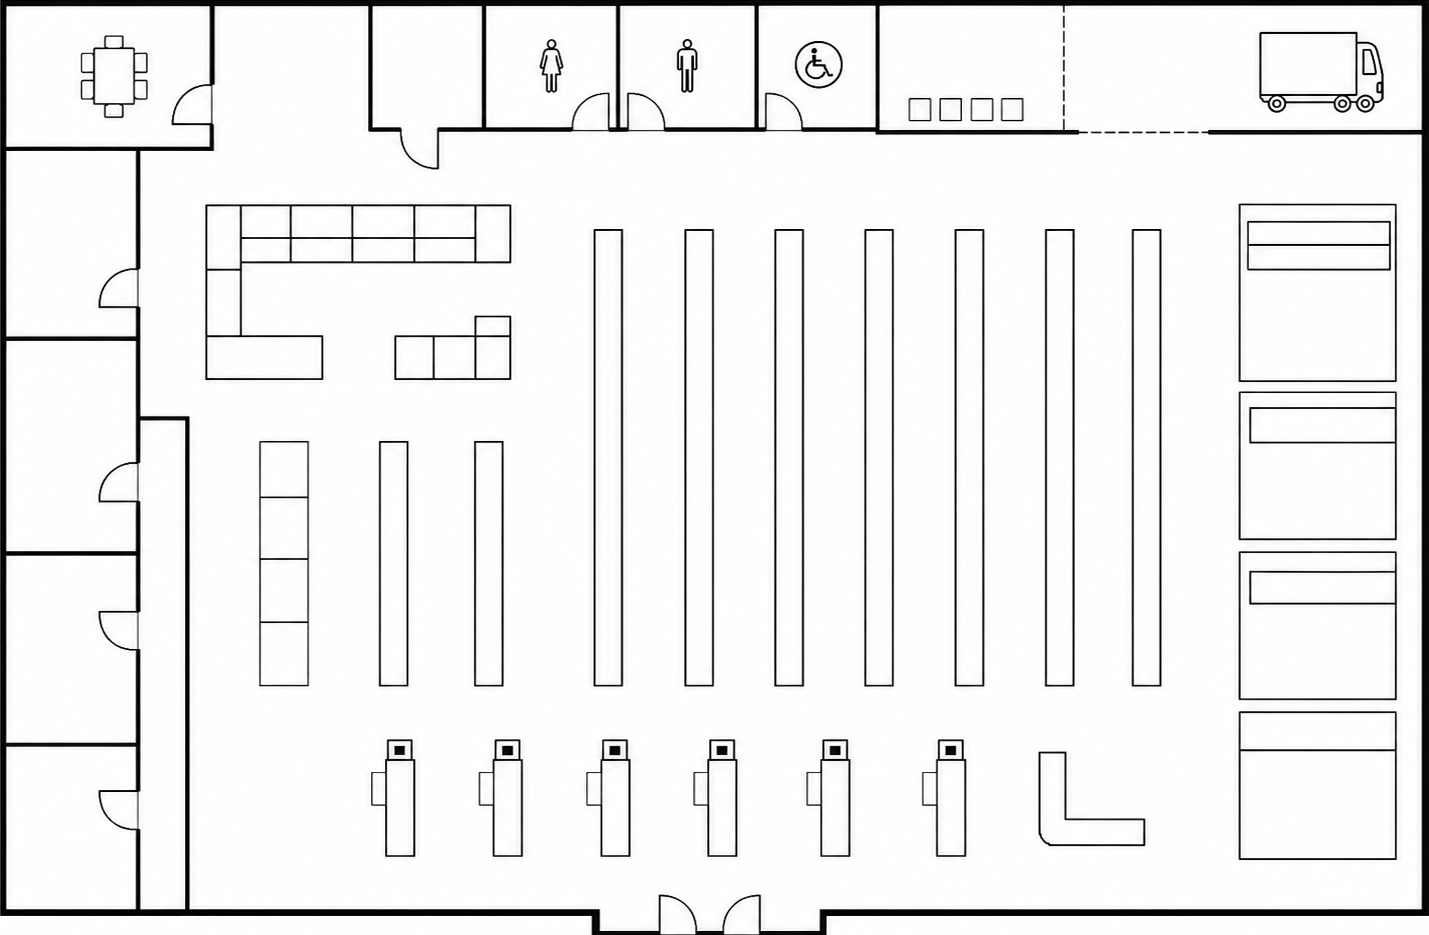
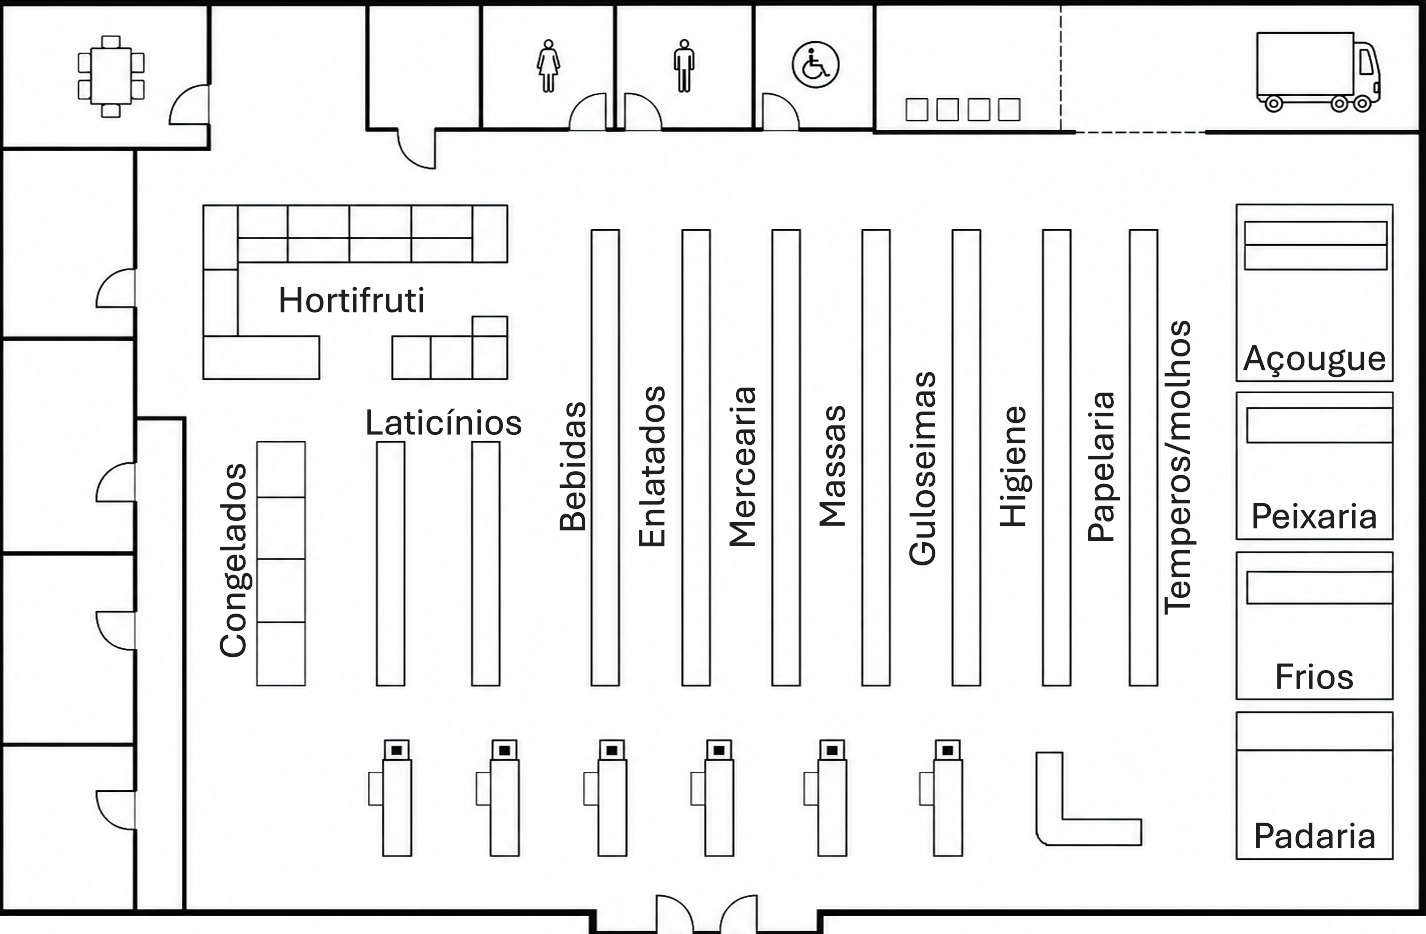
Alterando imagem de fundo do heatmap para melhor entendimento dos setores

diff --git a/site/Dashboard.html b/site/Dashboard.html
@@ -7,7 +7,7 @@
     <title>LOXEN | Dashboard</title>
     <script src="https://cdn.jsdelivr.net/npm/chart.js"></script>
     <link rel="stylesheet" href="css/dash.css">
-    
+
     <meta charset="UTF-8">
     <meta name="viewport" content="width=device-width, initial-scale=1.0">
     <script src="https://unpkg.com/heatmap.js"></script>
@@ -80,7 +80,7 @@
             <div class="grafico">
                 <h3>Mapa de Calor do Fluxo de Pessoas | Hoje</h3>
 
-                <canvas class="heatmap"></canvas>
+                <div class="heatmap"></div>
             </div>
         </div>
     </div>
@@ -248,24 +248,70 @@
 
     var dadosPorLocal = {
         local1: [
-            { x: 95, y: 175, value: 30, radius: 130 }
+            { x: 160, y: 137, value: 34, radius: 50 }
         ],
         local2: [
-            { x: 310, y: 225, value: 20, radius: 90 }
+            { x: 125, y: 137, value: 30, radius: 50 }
         ],
         local3: [
-            { x: 445, y: 190, value: 60, radius: 100 }
+            { x: 127, y: 92, value: 20, radius: 50 }
         ],
         local4: [
-            { x: 190, y: 364, value: 50, radius: 130 }
+            { x: 197, y: 72, value: 25, radius: 50 }
         ],
         local5: [
-            { x: 400, y: 365, value: 80, radius: 130 }
+            { x: 197, y: 152, value: 25, radius: 50 }
+        ],
+        local6: [
+            { x: 235, y: 72, value: 20, radius: 50 }
+        ],
+        local7: [
+            { x: 235, y: 152, value: 20, radius: 50 }
+        ],
+        local8: [
+            { x: 267, y: 72, value: 17, radius: 50 }
+        ],
+        local9: [
+            { x: 267, y: 152, value: 17, radius: 50 }
+        ],
+        local10: [
+            { x: 300, y: 72, value: 29, radius: 50 }
+        ],
+        local11: [
+            { x: 300, y: 152, value: 29, radius: 50 }
+        ],
+        local12: [
+            { x: 333, y: 72, value: 30, radius: 50 }
+        ],
+        local13: [
+            { x: 333, y: 152, value: 30, radius: 50 }
+        ],
+        local14: [
+            { x: 366, y: 72, value: 19, radius: 50 }
+        ],
+        local15: [
+            { x: 366, y: 152, value: 19, radius: 50 }
+        ],
+        local16: [
+            { x: 398, y: 72, value: 22, radius: 50 }
+        ],
+        local17: [
+            { x: 398, y: 152, value: 22, radius: 50 }
+        ],
+        local18: [
+            { x: 433, y: 72, value: 23, radius: 50 }
+        ],
+        local19: [
+            { x: 433, y: 115, value: 23, radius: 50 }
+        ],
+        local20: [
+            { x: 433, y: 152, value: 29, radius: 50 }
+        ],
+        local21: [
+            { x: 433, y: 182, value: 29, radius: 50 }
         ]
-    };
 
-    // Limpar o heatmap antes de adicionar novos dados
-    instanciaHeatmap.setData({ max: 0, data: [] });
+    };
 
     for (var local in dadosPorLocal) {
         var dadosDoLocal = dadosPorLocal[local];
@@ -278,5 +324,7 @@
             }
         }
     }
+
+    console.log(h337);
 
 </script>

diff --git a/site/css/dash.css b/site/css/dash.css
@@ -127,9 +127,7 @@ body {
 .grafico {
     background: white;
     border-radius: 10px;
-    padding-inline: 10px;
-    padding-top: 10px;
-    padding-bottom: 0;
+    padding: 10px;
     display: flex;
     flex-direction: column;
     min-height: 0;
@@ -148,6 +146,15 @@ body {
 }
 
 .heatmap {
+    position: relative;
+    width: 515px;
+    height: 230px;
+
+    min-width: 515px;
+    min-height: 230px;
+    max-width: 515px;
+    max-height: 230px;
+
     background-image: url(../assets/img/mapaLocal.png);
     background-repeat: no-repeat;
     background-size: 100% 100%;